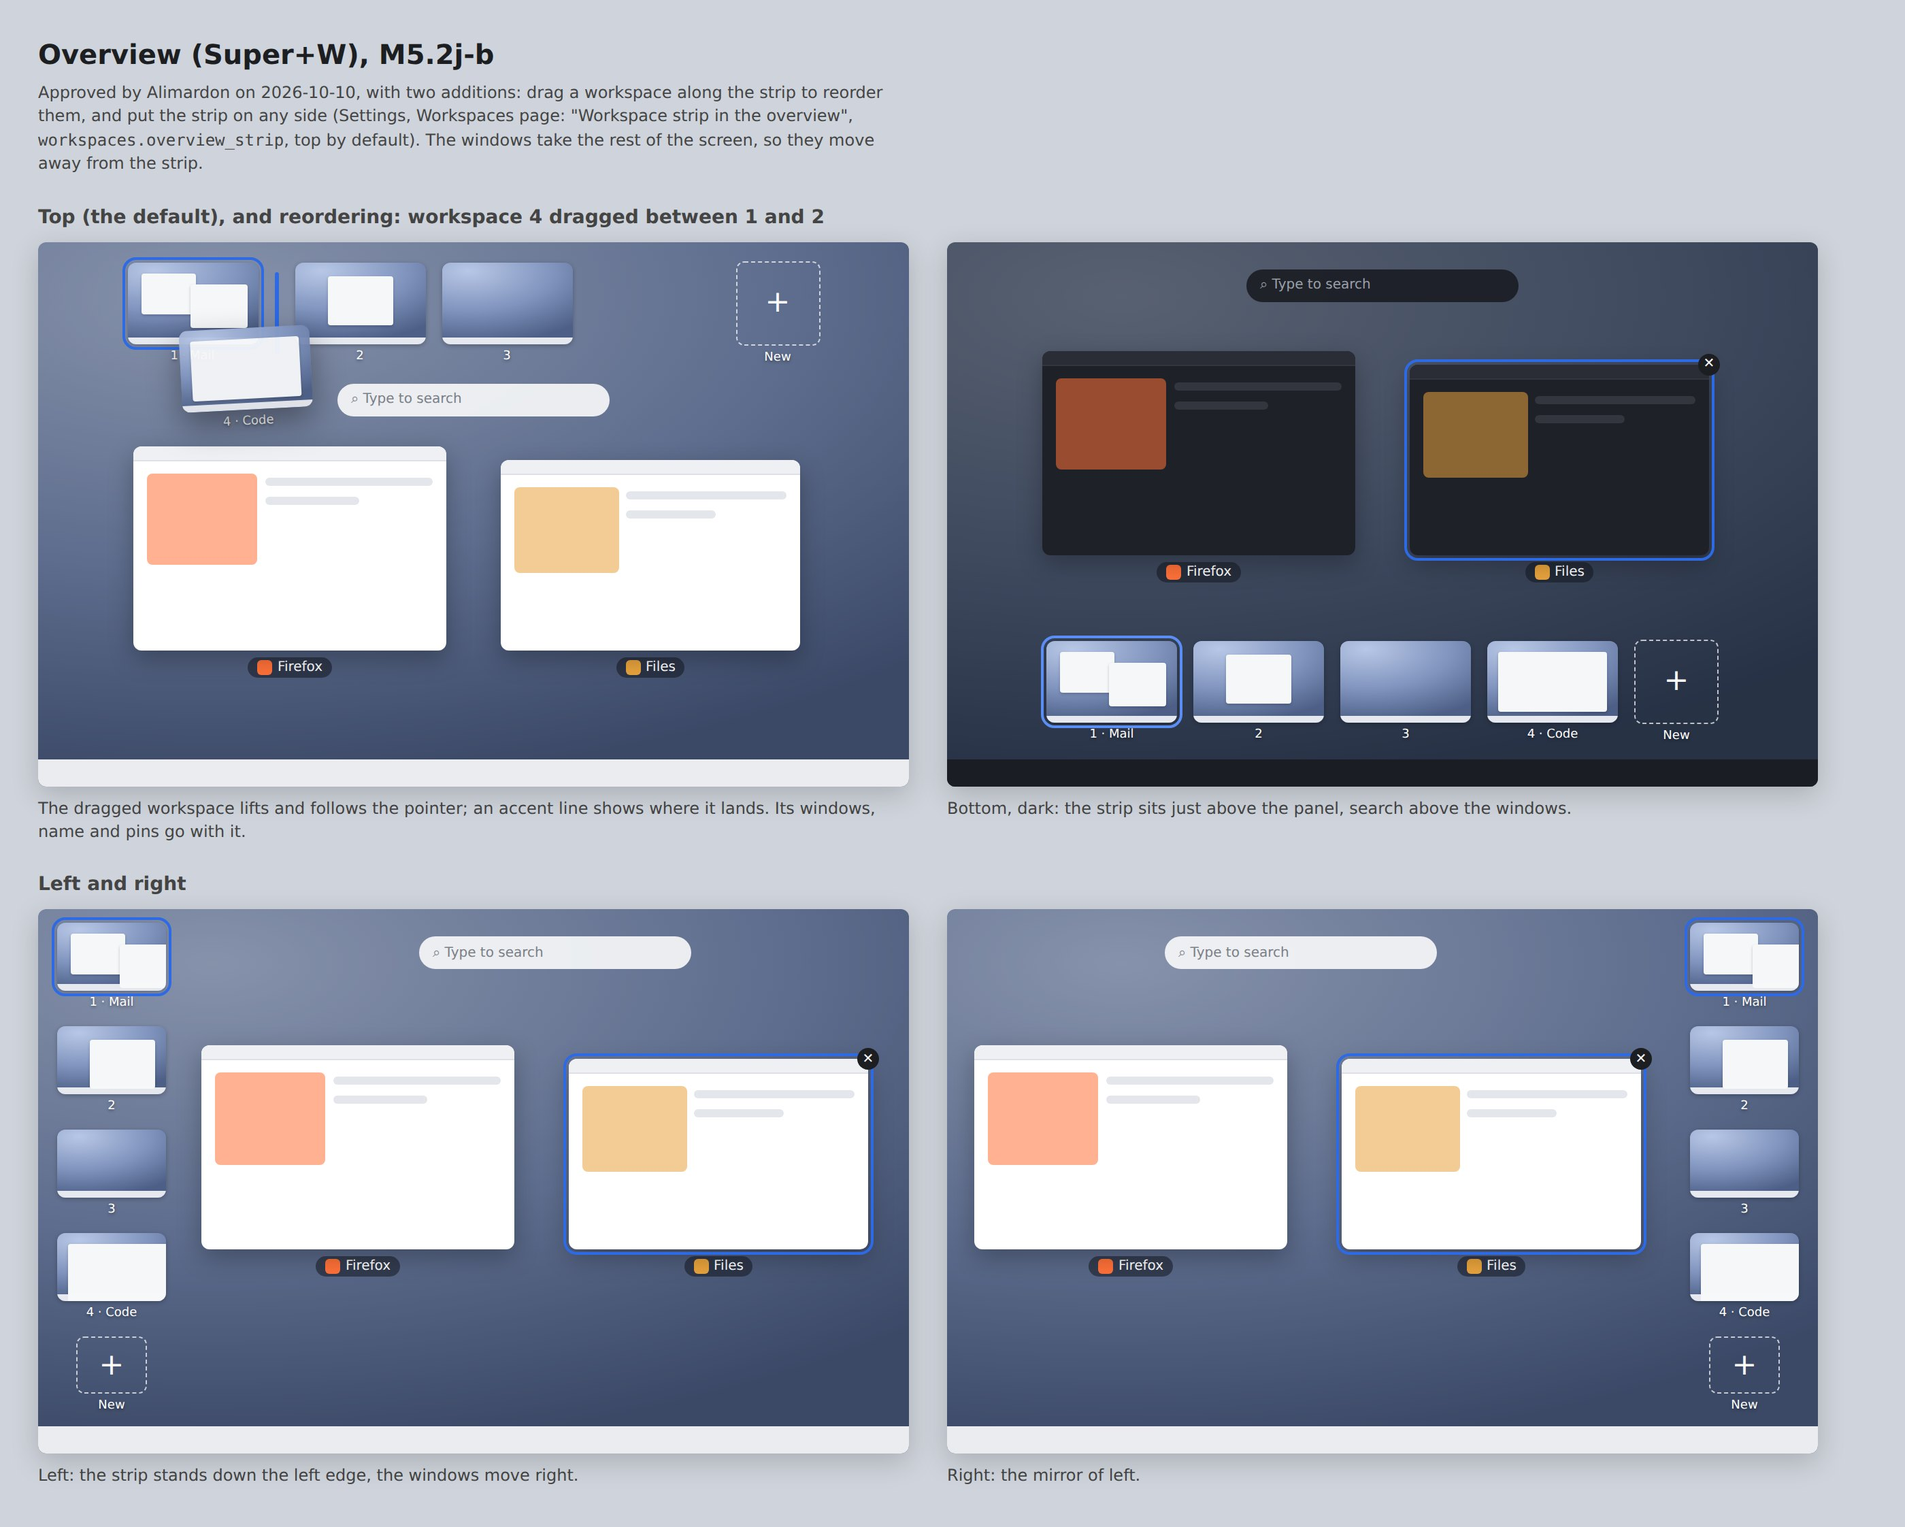
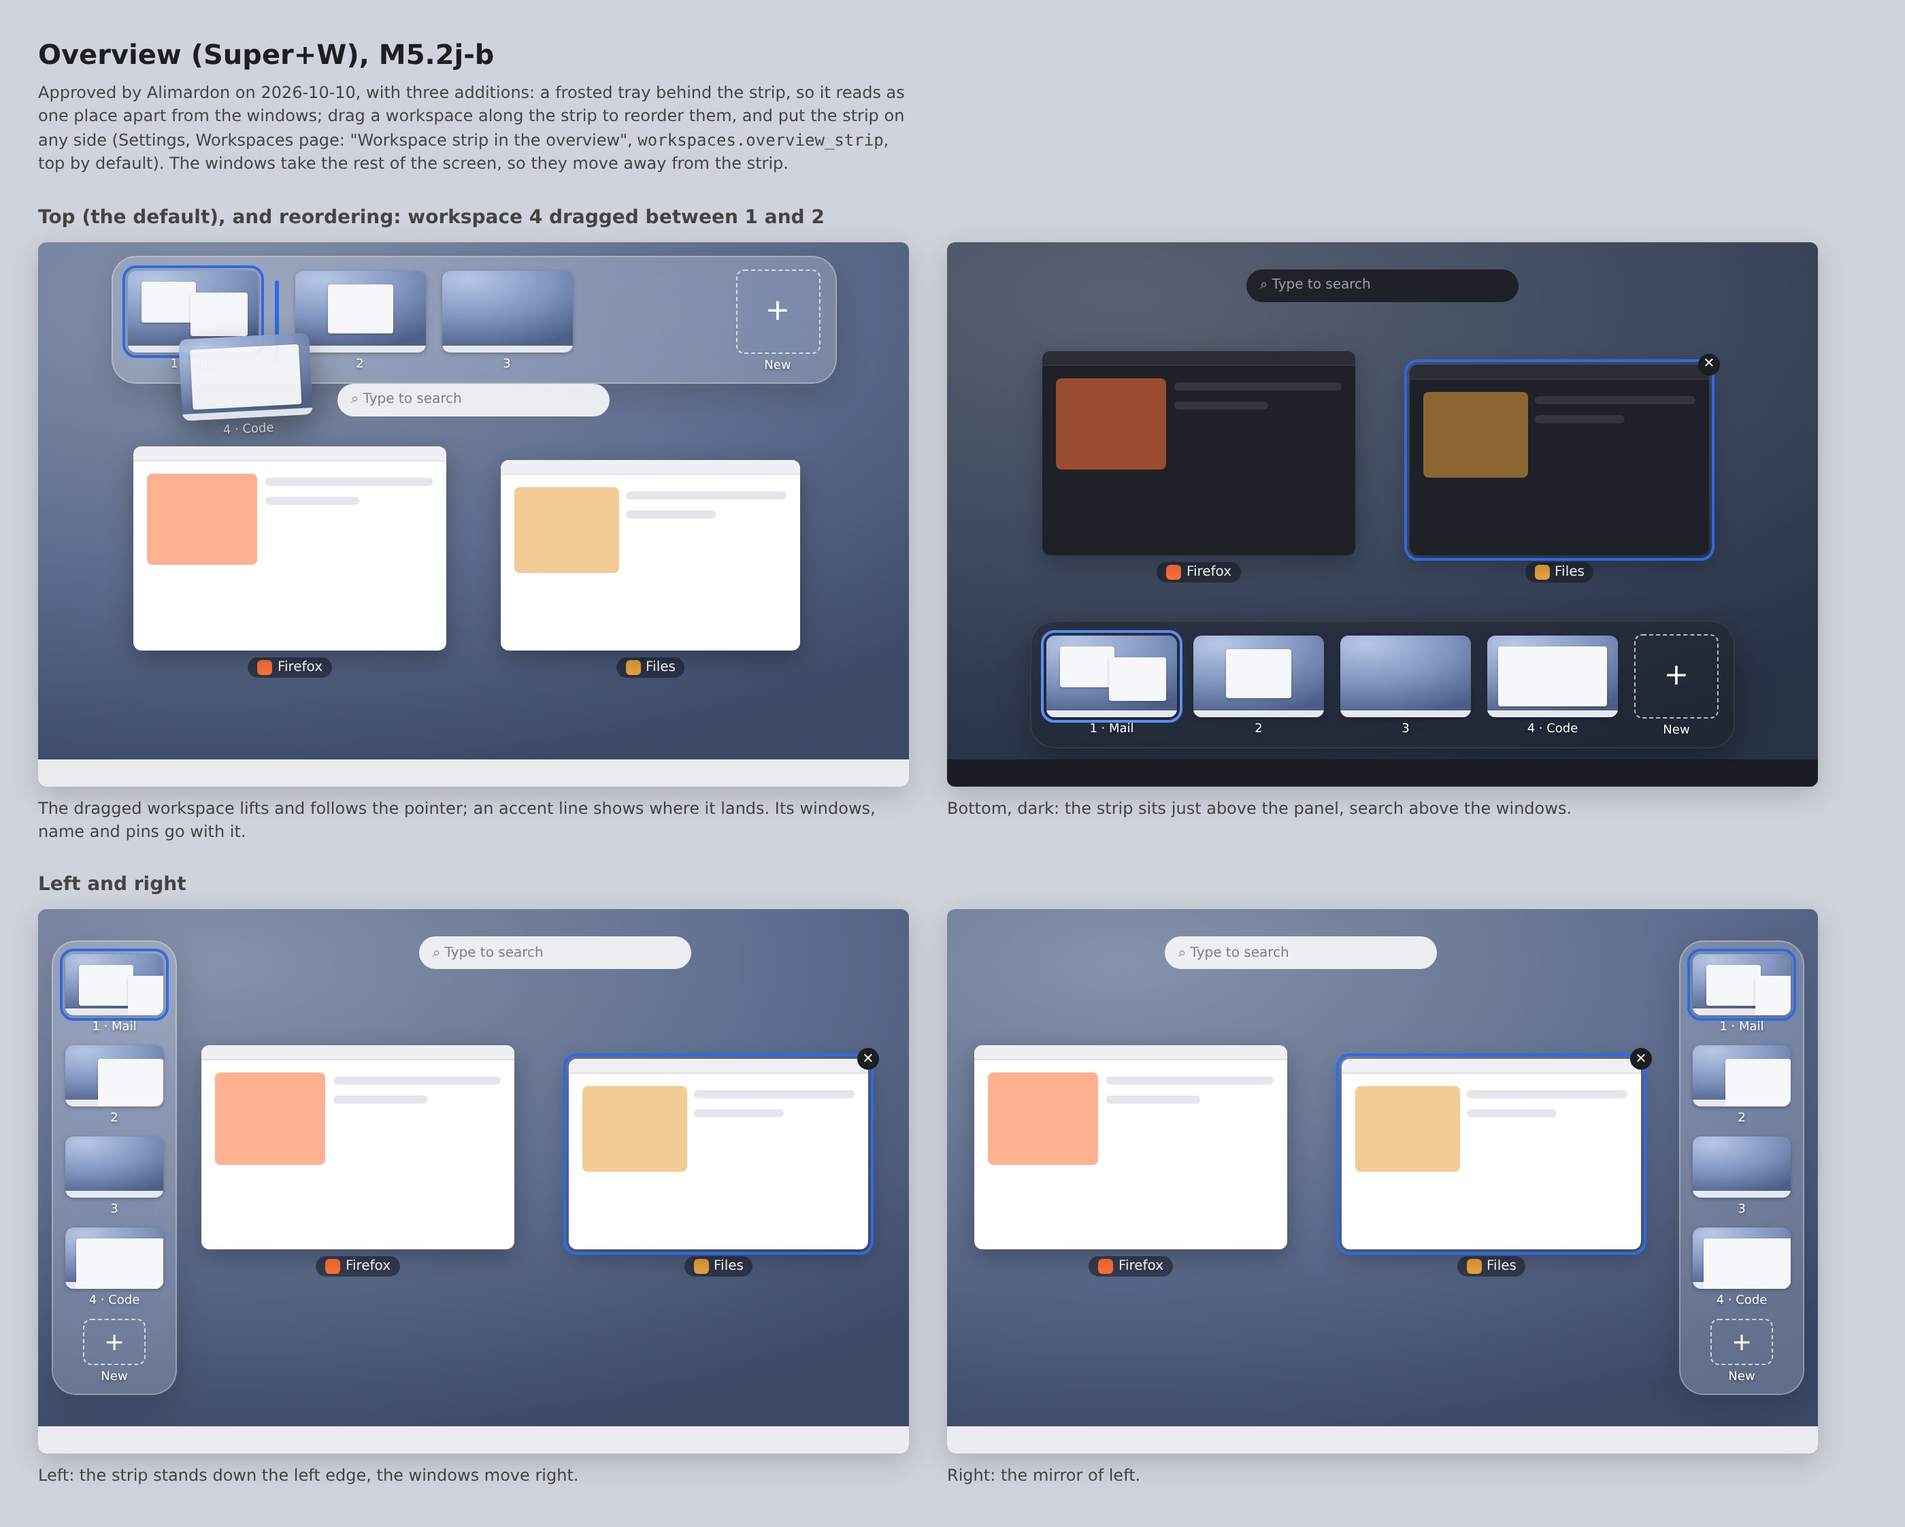
Put the overview's workspace strip on a frosted tray
Asked by Alimardon on 2026-10-10: a background behind the strip, so it
reads apart from the windows, premium and calm. The tray is the panel's
colour over the blurred wallpaper on Full and solid on the lighter tiers,
with a hairline and round corners; on the sides the frames shrink a
little so the tray keeps room above and below.

Claude-Session: https://claude.ai/code/session_01BKmt1qoa5mKGyQ4ytiEsKo

diff --git a/docs/mockups/shell/canvas/overview.html b/docs/mockups/shell/canvas/overview.html
@@ -14,9 +14,16 @@ h1{font-size:20px;margin:0 0 4px}h2{font-size:14px;margin:22px 0 10px;color:#444
 .dark .dim{background:rgba(10,12,16,.55)}
 .strip{position:absolute;display:flex;gap:12px;align-items:center;justify-content:center}
 .strip.h{left:0;right:0}.strip.v{flex-direction:column;top:0;bottom:20px}
+/* The strip's tray (Alimardon, 2026-10-10): frosted, the panel's colour
+   over the blurred wallpaper on Full, solid on Lite, a hairline inside its
+   edge, round corners. It hugs the frames. */
+.tray{display:flex;gap:12px;align-items:center;padding:10px 12px 8px;border-radius:18px;background:rgba(246,247,249,.22);backdrop-filter:blur(14px) saturate(1.2);box-shadow:inset 0 0 0 1px rgba(255,255,255,.28),0 8px 24px rgba(10,14,24,.18)}
+.v .tray{flex-direction:column;padding:10px 10px 8px}
+.dark .tray{background:rgba(26,28,34,.45);box-shadow:inset 0 0 0 1px rgba(255,255,255,.08),0 8px 24px rgba(0,0,0,.3)}
 .ws{display:flex;flex-direction:column;align-items:center;gap:4px;position:relative}
 .mini{width:96px;height:60px;border-radius:6px;position:relative;overflow:hidden;background:radial-gradient(120% 90% at 20% 10%,#b8c7e6,#7f93bd 55%,#4d5f86);box-shadow:0 1px 3px rgba(0,0,0,.25)}
-.v .mini{width:80px;height:50px}
+.v .mini{width:72px;height:45px}
+.v .tray{gap:8px}
 .mini .bar{position:absolute;left:0;right:0;bottom:0;height:5px;background:rgba(246,247,249,.9)}
 .mini .w{position:absolute;background:#f6f7f9;border-radius:2px;box-shadow:0 1px 2px rgba(0,0,0,.2)}
 .mini.on{outline:2px solid #2d6ae3;outline-offset:2px}
@@ -26,7 +33,7 @@ h1{font-size:20px;margin:0 0 4px}h2{font-size:14px;margin:22px 0 10px;color:#444
 .gap{width:3px;height:60px;border-radius:2px;background:#2d6ae3}
 .lbl{font-size:9px;color:#fff;text-shadow:0 1px 2px rgba(0,0,0,.4)}
 .add{width:60px;height:60px;border-radius:6px;border:1.5px dashed rgba(255,255,255,.7);display:flex;align-items:center;justify-content:center;color:#fff;font-size:22px}
-.v .add{width:50px;height:40px}
+.v .add{width:44px;height:32px;font-size:18px}
 .search{position:absolute;z-index:4;width:200px;height:24px;border-radius:12px;background:rgba(246,247,249,.92);font-size:10px;color:#7a7f88;display:flex;align-items:center;padding-left:10px;box-sizing:border-box}
 .dark .search{background:rgba(26,28,34,.9);color:#9aa0aa}
 .win{position:absolute;display:flex;flex-direction:column;align-items:center;gap:5px}
@@ -45,7 +52,7 @@ h1{font-size:20px;margin:0 0 4px}h2{font-size:14px;margin:22px 0 10px;color:#444
 .hand{position:absolute;font-size:18px}
 </style></head><body>
 <h1>Overview (Super+W), M5.2j-b</h1>
-<div class="cap">Approved by Alimardon on 2026-10-10, with two additions: drag a workspace along the strip to reorder them, and put the strip on any side (Settings, Workspaces page: "Workspace strip in the overview", <code>workspaces.overview_strip</code>, top by default). The windows take the rest of the screen, so they move away from the strip.</div>
+<div class="cap">Approved by Alimardon on 2026-10-10, with three additions: a frosted tray behind the strip, so it reads as one place apart from the windows; drag a workspace along the strip to reorder them, and put the strip on any side (Settings, Workspaces page: "Workspace strip in the overview", <code>workspaces.overview_strip</code>, top by default). The windows take the rest of the screen, so they move away from the strip.</div>
 <h2>Top (the default), and reordering: workspace 4 dragged between 1 and 2</h2>
 <div class="row"><div><div class="screen" id="top"></div><div class="cap">The dragged workspace lifts and follows the pointer; an accent line shows where it lands. Its windows, name and pins go with it.</div></div>
 <div class="dark"><div class="screen" id="bottom"></div><div class="cap">Bottom, dark: the strip sits just above the panel, search above the windows.</div></div></div>
@@ -58,8 +65,8 @@ function ws(on,wins,label,extra=''){let w=wins.map(([x,y,a,b])=>`<div class="w" 
 const W=[[[10,8,40,30],[46,16,42,32]],[[24,10,48,36]],[],[[8,8,80,44]]],L=['1 · Mail','2','3','4 · Code'];
 function strip(side,drag){let parts=[];for(let i=0;i<4;i++){if(drag&&i==1)parts.push('<div class="gap"></div>');if(drag&&i==3){parts.push(ws(false,W[3],L[3],' lift').replace('class="ws"','class="ws lift"'));continue;}parts.push(ws(i==0,W[i],L[i]));}
  parts.push('<div class="ws"><div class="add">+</div><div class="lbl">New</div></div>');
- const v=side=='left'||side=='right';const pos={top:'top:14px',bottom:'bottom:32px',left:'left:14px',right:'right:14px'}[side];
- return `<div class="strip ${v?'v':'h'}" style="${pos}">${parts.join('')}</div>`;}
+ const v=side=='left'||side=='right';const pos={top:'top:10px',bottom:'bottom:28px',left:'left:10px',right:'right:10px'}[side];
+ return `<div class="strip ${v?'v':'h'}" style="${pos}"><div class="tray">${parts.join('')}</div></div>`;}
 function win(x,y,w,h,app,col,hov){return `<div class="win" style="left:${x}px;top:${y}px"><div class="wrap"><div class="pic${hov?' hover':''}" style="width:${w}px;height:${h}px"><div class="tb"></div><div class="blk" style="left:10px;top:20px;width:${w*.35}px;height:${h*.45}px;background:${col};opacity:.55"></div><div class="ln" style="margin-left:${w*.42}px;margin-top:12px"></div><div class="ln" style="margin-left:${w*.42}px;width:${w*.3}px"></div></div>${hov?'<div class="close">✕</div>':''}</div><div class="name"><span class="ic" style="background:${col}"></span>${app}</div></div>`;}
 function screen(id,side,drag){
  const v=side=='left'||side=='right';

diff --git a/docs/ROADMAP.md b/docs/ROADMAP.md
@@ -219,7 +219,7 @@ Every milestone ends with the ab-test, boot-test and install-test still green; a
     Done when: cargo tests write each new name (`edel settings set workspaces.count=6` gives `[workspaces]` `count = 6`); desktop-test `settings-workspaces` opens Settings with `--page workspaces.count` and its click on 6 writes `workspaces.count = 6`; `settings-panels` opens the Panels page; a new `settings-appearance` case clicks Dark and sees the dark tokens. Notes: the panel editor (M5.31) and the compositor read the new names; `docs/settings.md` lists the three pages in the app's order. Done with: `edel::settings` has `[panels]`, `[workspaces]` and the switcher's `appearance.switcher_*` keys, with no old names kept; Settings' `layout.rs` builds the four pages with one builder (Style is Light, Dark and Automatic as buttons) and three new icons in `design/icons/`; the compositor, shell-ui, the panel editor and every desktop-test case read and write the new names, and `settings-appearance` clicks Dark.
   - [x] **2j-a. The overview, first.** Super+W (`show_workspaces`, as COSMIC has it; desktop-test's rebinding of close moved to Super+X) zooms out to every workspace of the screen side by side, each with its windows' last pictures (the still ones Lite shows); a click on a workspace shows it and leaves; a window dragged onto another workspace of its screen moves there and the overview stays; Escape or Super+W again leaves.
     Done when: Super+W shows four workspace frames in the screendump with a test window's colour in the second; a `qmp.py drag` of that window to the third frame logs `window lap to workspace 3`; Escape brings the desktop back with no overview layer left. Done with: `glance.rs` draws the overview and the lib's `overview.rs` holds its geometry (tested); desktop-test's `overview` case sends `lap` to workspace 2, finds its colour in frame 2, drags its picture to frame 3, and checks Escape, a click on frame 3 and Super+1. PR #196.
-  - [ ] **2j-b. The overview, finished.** Redrawn after the overviews people know (Alimardon, 2026-10-10: learn from them, without copying any): the current workspace large in the middle with its windows spread out to pick, each with its app icon and title under it and a close button while hovered; every workspace a small frame in a strip, with the wallpaper and its number or name under it, and a frame to add one at the strip's end (`docs/mockups/shell/overview.jpg`). A workspace dragged along the strip reorders them, its windows, name and pins going with it. The strip lies along the top by default, or the bottom, the left or the right, as `workspaces.overview_strip` (`top`, `bottom`, `left`, `right`) says, a row on the Workspaces page and an `edel settings` key like every other, the windows taking the rest of the screen. Tiling or floating, the overview is the same: it draws each window's picture spread out, whatever the workspace's policy, changes no window's place or size, and leaving it gives back each workspace's layout as it was (Alimardon, 2026-10-10: tiling must never make the UI buggy). Live pictures on Full and Balanced; a window dragged onto another screen moves there; a workspace dragged reorders them (2i); typing searches the windows and the launcher's apps. The four-finger swipe up on a touchpad and the tablet gesture (M9.4) open it too. Beyond macOS's Mission Control and COSMIC's overview: search built in, every preset, and the same overview on a tablet.
+  - [ ] **2j-b. The overview, finished.** Redrawn after the overviews people know (Alimardon, 2026-10-10: learn from them, without copying any): the current workspace large in the middle with its windows spread out to pick, each with its app icon and title under it and a close button while hovered; every workspace a small frame in a strip on its own frosted tray (the panel's colour over the blurred wallpaper on Full, solid on Balanced and Lite, a hairline inside its edge and round corners, so the strip reads as one place apart from the windows), with the wallpaper and its number or name under it, and a frame to add one at the strip's end (`docs/mockups/shell/overview.jpg`). A workspace dragged along the strip reorders them, its windows, name and pins going with it. The strip lies along the top by default, or the bottom, the left or the right, as `workspaces.overview_strip` (`top`, `bottom`, `left`, `right`) says, a row on the Workspaces page and an `edel settings` key like every other, the windows taking the rest of the screen. Tiling or floating, the overview is the same: it draws each window's picture spread out, whatever the workspace's policy, changes no window's place or size, and leaving it gives back each workspace's layout as it was (Alimardon, 2026-10-10: tiling must never make the UI buggy). Live pictures on Full and Balanced; a window dragged onto another screen moves there; a workspace dragged reorders them (2i); typing searches the windows and the launcher's apps. The four-finger swipe up on a touchpad and the tablet gesture (M9.4) open it too. Beyond macOS's Mission Control and COSMIC's overview: search built in, every preset, and the same overview on a tablet.
     Done when: at tier Full, a test window that changes its colour while the overview is open shows the new colour in the screendump; in the `outputs` case a drag of a window's picture onto the second screen's frame logs it on that screen; dragging frame 3 onto frame 1 logs the new order; typing `foot` and Return in the overview starts foot. `edel settings set workspaces.overview_strip=left` puts the strip at the screen's left in the screendump, and `diagonal` is refused with the key's choices; on a tiled workspace, opening and leaving the overview leaves the state file's windows where they were.
 - [x] **3. Launcher and switcher.** One private protocol `edel-shell-v1` (compositor to shell-ui: show launcher, switcher step, hide); the launcher reads the XDG `.desktop` files itself (no GLib in shell-ui) with search, and grows out of its panel button (REVIEW-shells.md); Alt-Tab list; the presets gain the launcher's style.
   Done when: `qmp.py key meta_l` shows the launcher region colour; `type foot` and Return gives `mapped window foot`; Alt-Tab shows the switcher region.
@@ -735,7 +735,7 @@ RAUC, ostree or systemd (a systemd adapter only as an add-on, M11.6); a shell ex
 
 Dated entries, newest first. Format: `YYYY-MM-DD: what changed, why, which PR`. Since 2026-10-07 only a change to the plan gets an entry: a finished step is recorded by its tick and its "Done with:" note, so the many PRs running side by side do not all add a line at the same place.
 
-- 2026-10-10: M5.2j-b's overview approved from mockups (`docs/mockups/shell/overview.jpg`), with Alimardon's two additions: workspaces reorder by dragging in the strip, and the strip lies on any side (`workspaces.overview_strip`, top by default), the side chosen like any other setting; tiling or floating, the overview changes no layout. Asked by Alimardon.
+- 2026-10-10: M5.2j-b's overview approved from mockups (`docs/mockups/shell/overview.jpg`), with Alimardon's three additions: a frosted tray behind the strip, workspaces reorder by dragging in the strip, and the strip lies on any side (`workspaces.overview_strip`, top by default), the side chosen like any other setting; tiling or floating, the overview changes no layout. Asked by Alimardon.
 - 2026-10-10: M5.9i added: the player card names its app at its top centre and pages through every player sideways with tiny dots, still a pill (`docs/mockups/shell/player.jpg`; Alimardon chose 2A, sideways, over 2B, a vertical stack with dots on its edge). M5.2j-b also redraws the overview after the overviews people know (macOS's Mission Control, GNOME, Windows' Task View, KDE): the current workspace large with its windows spread out, every workspace a small frame in a strip along the top with the wallpaper and its name, app icons and titles under windows, a frame to add a workspace, and a close button on a hovered window. Asked by Alimardon.
 - 2026-10-10: Until the first release, settings keys are renamed or dropped freely, with no old names read and no compatibility code; `ci/keys-check.sh` passes a removed key while `released=no`, and M5.2q renames without reading the old names (ADR-008 amended). Asked by Alimardon. PR #194.
 - 2026-10-10: M5.12b split into 12b1 to 12b6 (colours, shape, glass and depth, motion, fonts and wallpaper, themes), so appearance is as customizable as a Hyprland or niri rice within settings and tokens; themes get their own Settings page, `[themes]`, as named sets of appearance values, Claude's call when Alimardon left it open. Asked by Alimardon.

diff --git a/docs/mockups/README.md b/docs/mockups/README.md
@@ -72,7 +72,7 @@ review of M8.18 first) may revisit them for better taste.
 | [shell/settings.jpg](shell/settings.jpg) | Every setting these pictures need: its choices, its default and its proposed key; Alimardon's decisions, and four defaults Claude picked by the principles (how many workspaces show, the ends of their strip, the volume pop-up on, new tray apps behind the arrow), which they can overrule |
 | [shell/standing-slider.jpg](shell/standing-slider.jpg) | How Sound is reached from a standing volume slider: six ways compared, and the one chosen, no button, a right click or a still hold |
 | [shell/player.jpg](shell/player.jpg) | The player card (M5.9i, chosen by Alimardon on 2026-10-10 as option 2A): a pill, its app's icon and name small at the top centre; with several players each is a page, switched by scrolling sideways, a swipe or a click on tiny dots under the controls, the shown dot a short accent pill |
-| [shell/overview.jpg](shell/overview.jpg) | The overview, Super+W (M5.2j-b, approved by Alimardon on 2026-10-10): every workspace small in a strip, a frame to add one, search, and the shown workspace's windows large and labelled; a workspace dragged along the strip reorders them; the strip on the top (the default), the bottom, the left or the right, `workspaces.overview_strip` |
+| [shell/overview.jpg](shell/overview.jpg) | The overview, Super+W (M5.2j-b, approved by Alimardon on 2026-10-10): every workspace small in a strip on a frosted tray, a frame to add one, search, and the shown workspace's windows large and labelled; a workspace dragged along the strip reorders them; the strip on the top (the default), the bottom, the left or the right, `workspaces.overview_strip` |
 | [shell/options.jpg](shell/options.jpg) | The other layouts a person can switch to: the shelf at the top, both shelves, the player inside the grid, the sliders standing in it |
 
 The rules under them:
